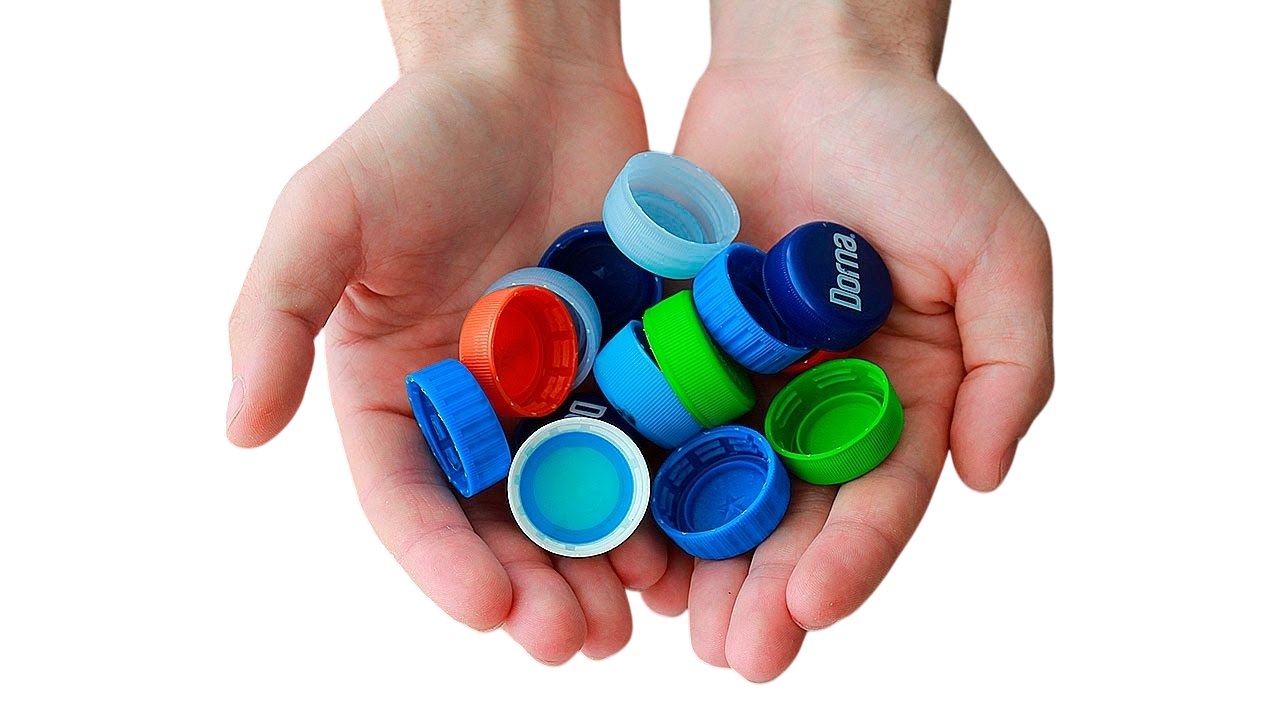
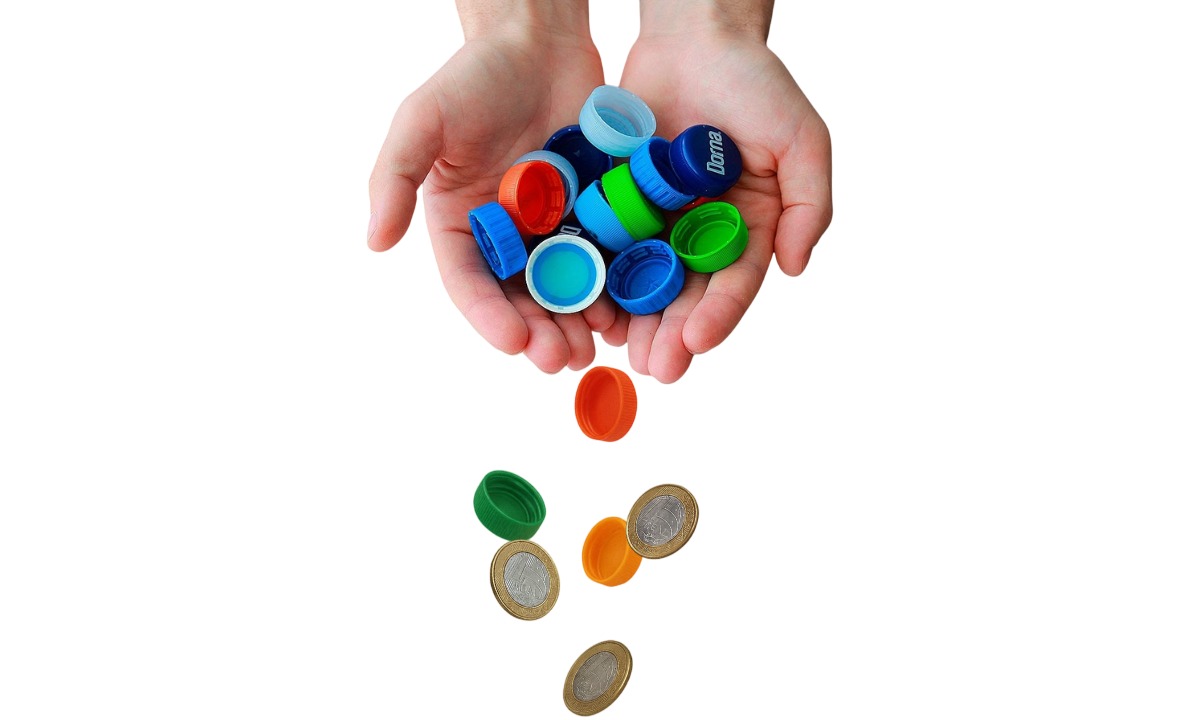
STYLES: Footer
alteração de cor footer;

inserção de fotos na pasta public.

diff --git a/styles/home.module.css b/styles/home.module.css
@@ -11,16 +11,61 @@
 
 /* COMO DOAR */
 .doar {
-    display: grid;
-    grid-template-columns: repeat(3, 1fr);
-    margin: 5rem;
+    display: flex;
+    justify-content: center;
+    align-items: center;
+    gap: 4rem;
+    width: 100%;
+    padding: 4rem 2rem;
+}
+
+/* 3 colunas no desktop */
+.col {
+    flex: 1;
+    display: flex;
+    justify-content: center;
+    align-items: center;
+}
+
+.texto {
+    font-size: 2.2rem;
+    text-align: center;
+    color: #333;
+}
+
+.animacao {
+    flex: 1;
+    display: flex;
+    justify-content: center;
+}
+
+.areaAnimacao {
+    position: relative;
+    width: 300px;
+    height: 200px;
+    overflow: hidden;
+}
+
+.moedaChao {
+    position: absolute;
+    bottom: 0;
+    left: 50%;
+    transform: translateX(-50%);
 }
 
 
 @media (max-width: 768px) {
     .doar {
-        display: grid;
-        grid-template-columns: repeat(2, 1fr);
-        margin: 2rem;
+        flex-direction: column;
+        gap: 2rem;
+    }
+
+    .texto {
+        font-size: 1.8rem;
+    }
+
+    .animacao {
+        order: -1;
+        /* animação fica no meio */
     }
 }

diff --git a/app/page.tsx b/app/page.tsx
@@ -1,8 +1,24 @@
-import Image from "next/image";
+'use client';
 
+import Image from "next/image";
 import styles from '@/styles/home.module.css';
+import { motion, AnimatePresence } from "framer-motion";
+import { useState, useEffect } from "react";
 
 export default function Home() {
+
+  const [show, setShow] = useState(true);
+  const [turnIntoCoin, setTurnIntoCoin] = useState(false);
+
+  useEffect(() => {
+    const t1 = setTimeout(() => setTurnIntoCoin(true), 1500);
+    const t2 = setTimeout(() => setShow(false), 2300);
+    return () => {
+      clearTimeout(t1);
+      clearTimeout(t2);
+    };
+  }, []);
+
   return (
     <div>
 
@@ -11,9 +27,7 @@ export default function Home() {
       </div>
 
       <div className={styles.doar}>
-        <h1> Doe Tampinhas </h1>
-        <Image className={styles.doarimg} src="/doar_tampinhas.png" alt="doar tampinhas" width={500} height={200} />
-      </div>
+      </div> 
 
       <div className={styles.pontocoleta}>
         <h1> Encontre o ponto de coleta mais próximo de você </h1>

diff --git a/styles/footer.module.css b/styles/footer.module.css
@@ -3,7 +3,7 @@
     flex-direction: row;
     justify-content: space-between;
     align-items: center;
-    background: whitesmoke;
+    background: white;
     height: 15vh;
     box-shadow: 0 0 0.2rem 0.4rem rgba(0, 0, 0, 0.08);
     color: #333;

diff --git a/config.md b/config.md
@@ -52,3 +52,9 @@ npm install formik --save
 
 [Yup](https://formik.org/docs/guides/validation)
 npm install yup --save
+
+[Frame Motion](Animação-de-imagem)
+npm install framer-motion
+
+[Icons](biblioteca-de-icons)
+npm install lucide-react
